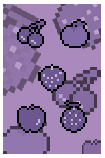
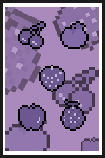
이미지 배경 버그 수정 / 이미지 수정

diff --git a/HalliGalliServer/HalliGalliServer/Resource.h b/HalliGalliServer/HalliGalliServer/Resource.h
@@ -31,7 +31,7 @@
 #ifndef APSTUDIO_READONLY_SYMBOLS
 #define _APS_NEXT_RESOURCE_VALUE        130
 #define _APS_NEXT_COMMAND_VALUE         32771
-#define _APS_NEXT_CONTROL_VALUE         1004
+#define _APS_NEXT_CONTROL_VALUE         1006
 #define _APS_NEXT_SYMED_VALUE           101
 #endif
 #endif

diff --git a/HalliGalliClient/HalliGalliClient/PictureEx.h b/HalliGalliClient/HalliGalliClient/PictureEx.h
@@ -1,0 +1,17 @@
+#pragma once
+class CPictureEx : public CStatic
+{
+	DECLARE_DYNAMIC(CPictureEx)
+
+public:
+	COLORREF Transparent;
+
+public:
+	CPictureEx();
+	virtual ~CPictureEx();
+
+protected:
+	DECLARE_MESSAGE_MAP()
+public:
+	afx_msg void OnPaint();
+};

diff --git a/HalliGalliServer/HalliGalliServer/PictureEx.h b/HalliGalliServer/HalliGalliServer/PictureEx.h
@@ -1,0 +1,17 @@
+#pragma once
+class CPictureEx : public CStatic
+{
+	DECLARE_DYNAMIC(CPictureEx)
+
+public:
+	COLORREF Transparent;
+
+public:
+	CPictureEx();
+	virtual ~CPictureEx();
+
+protected:
+	DECLARE_MESSAGE_MAP()
+public:
+	afx_msg void OnPaint();
+};
